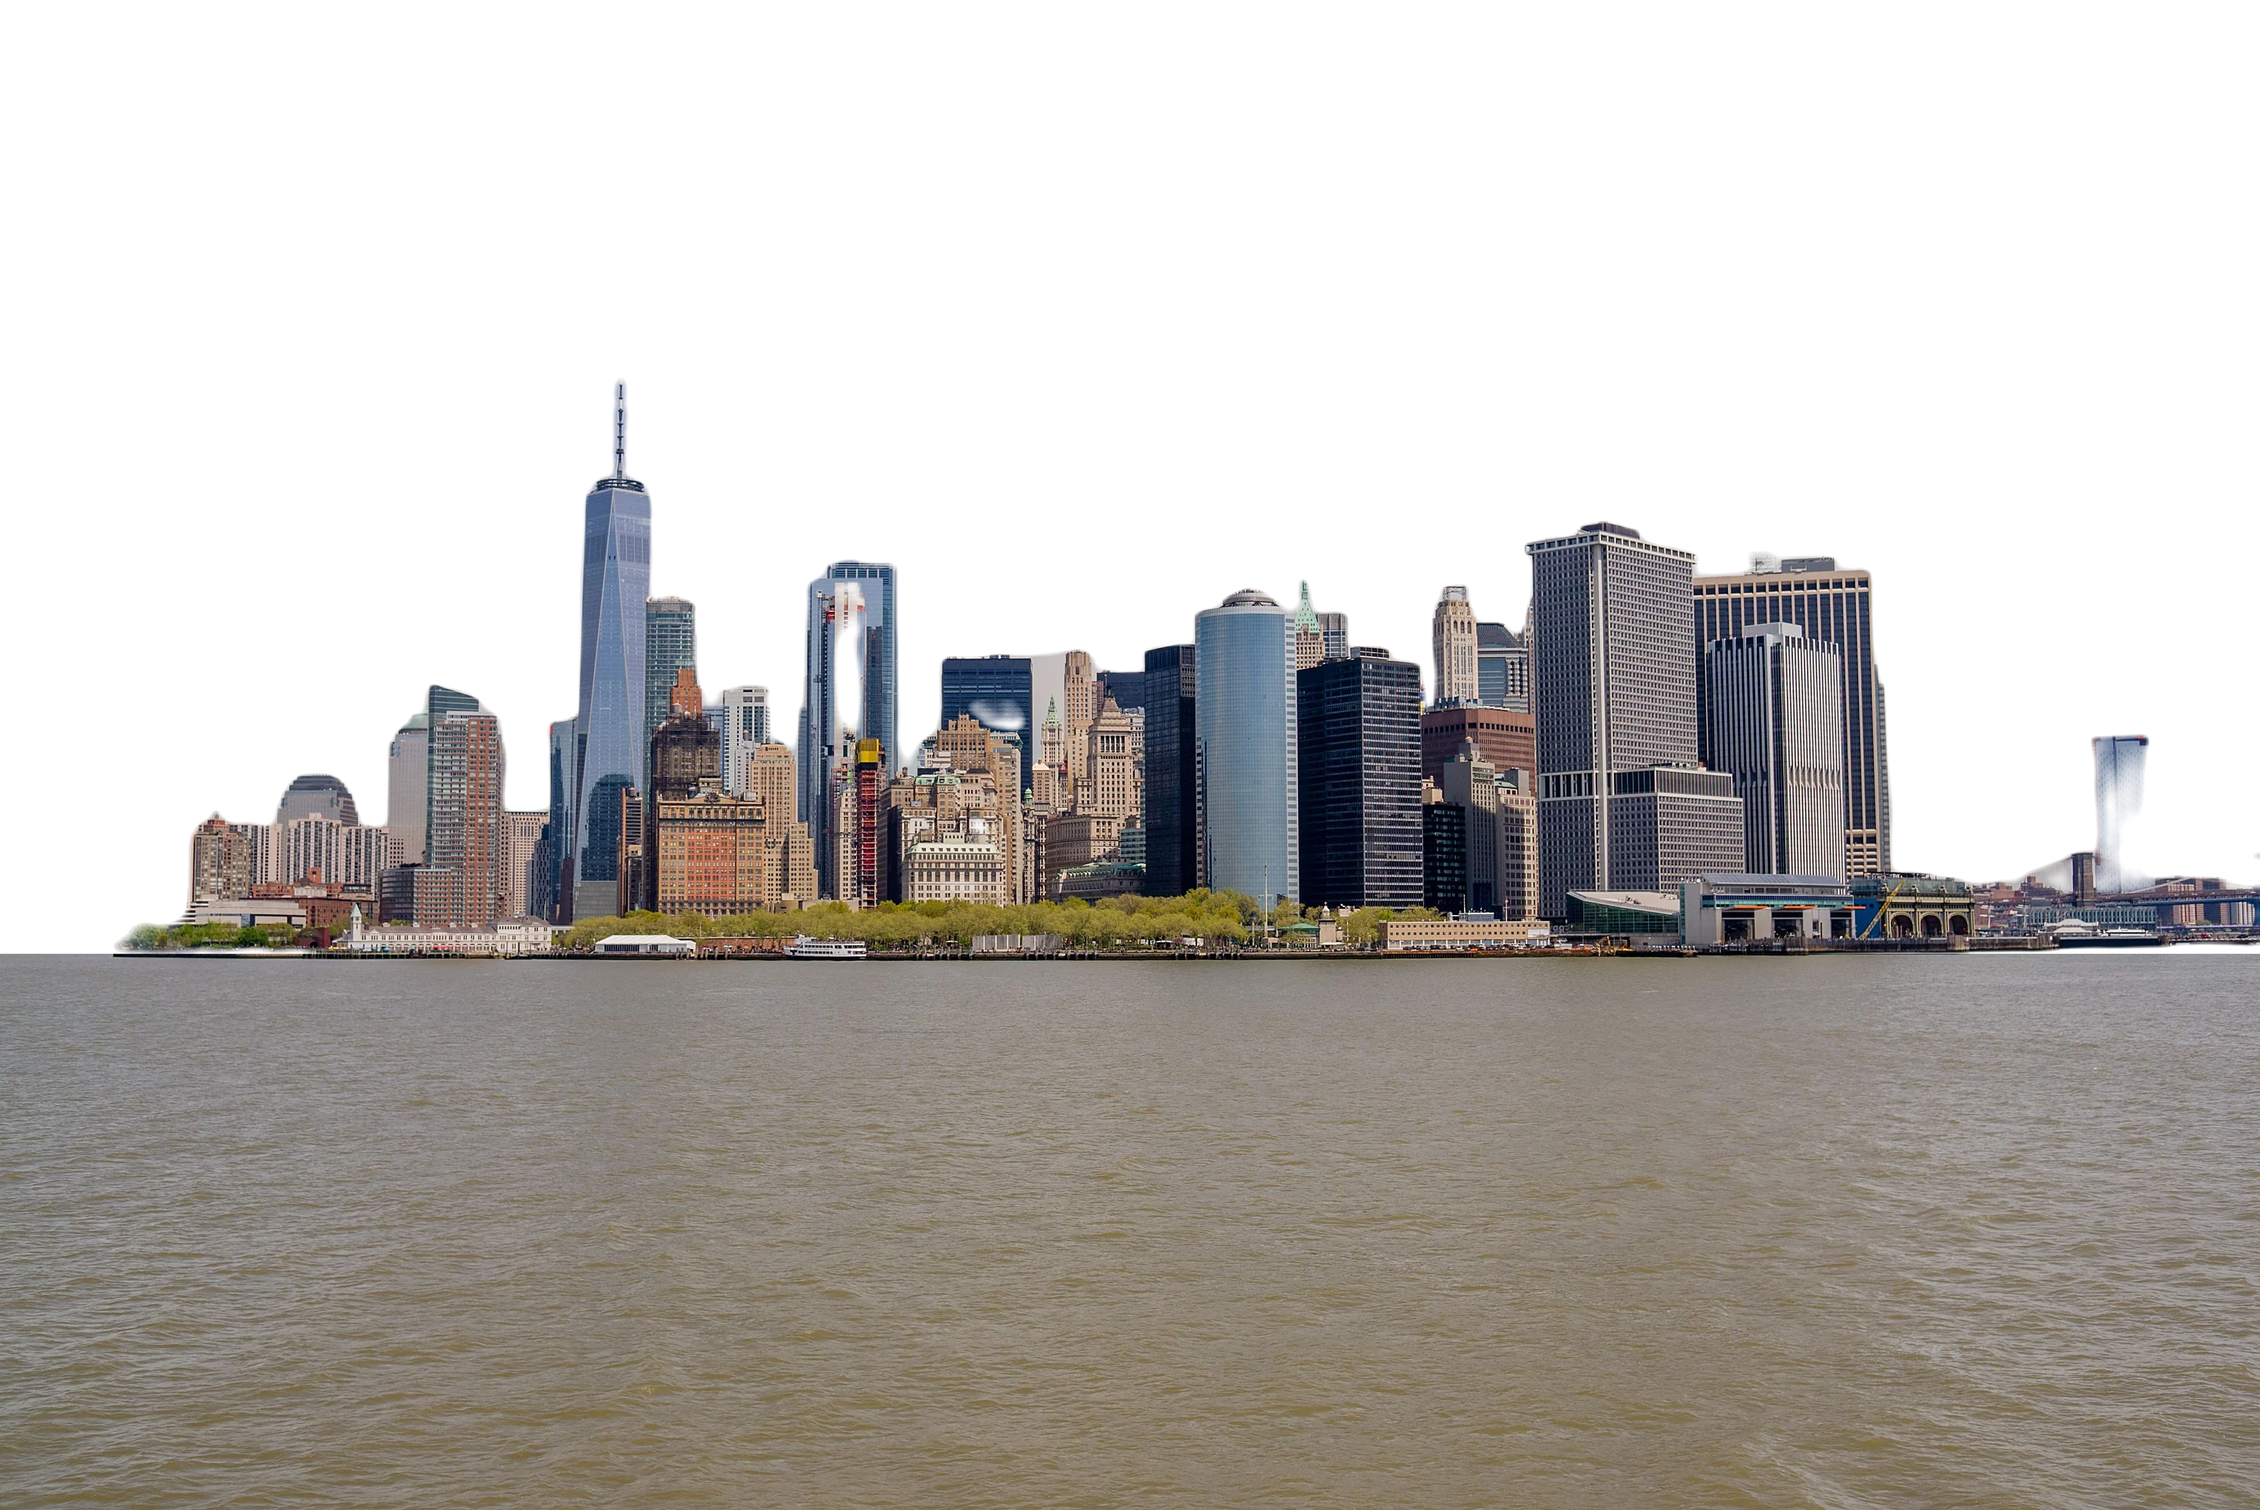
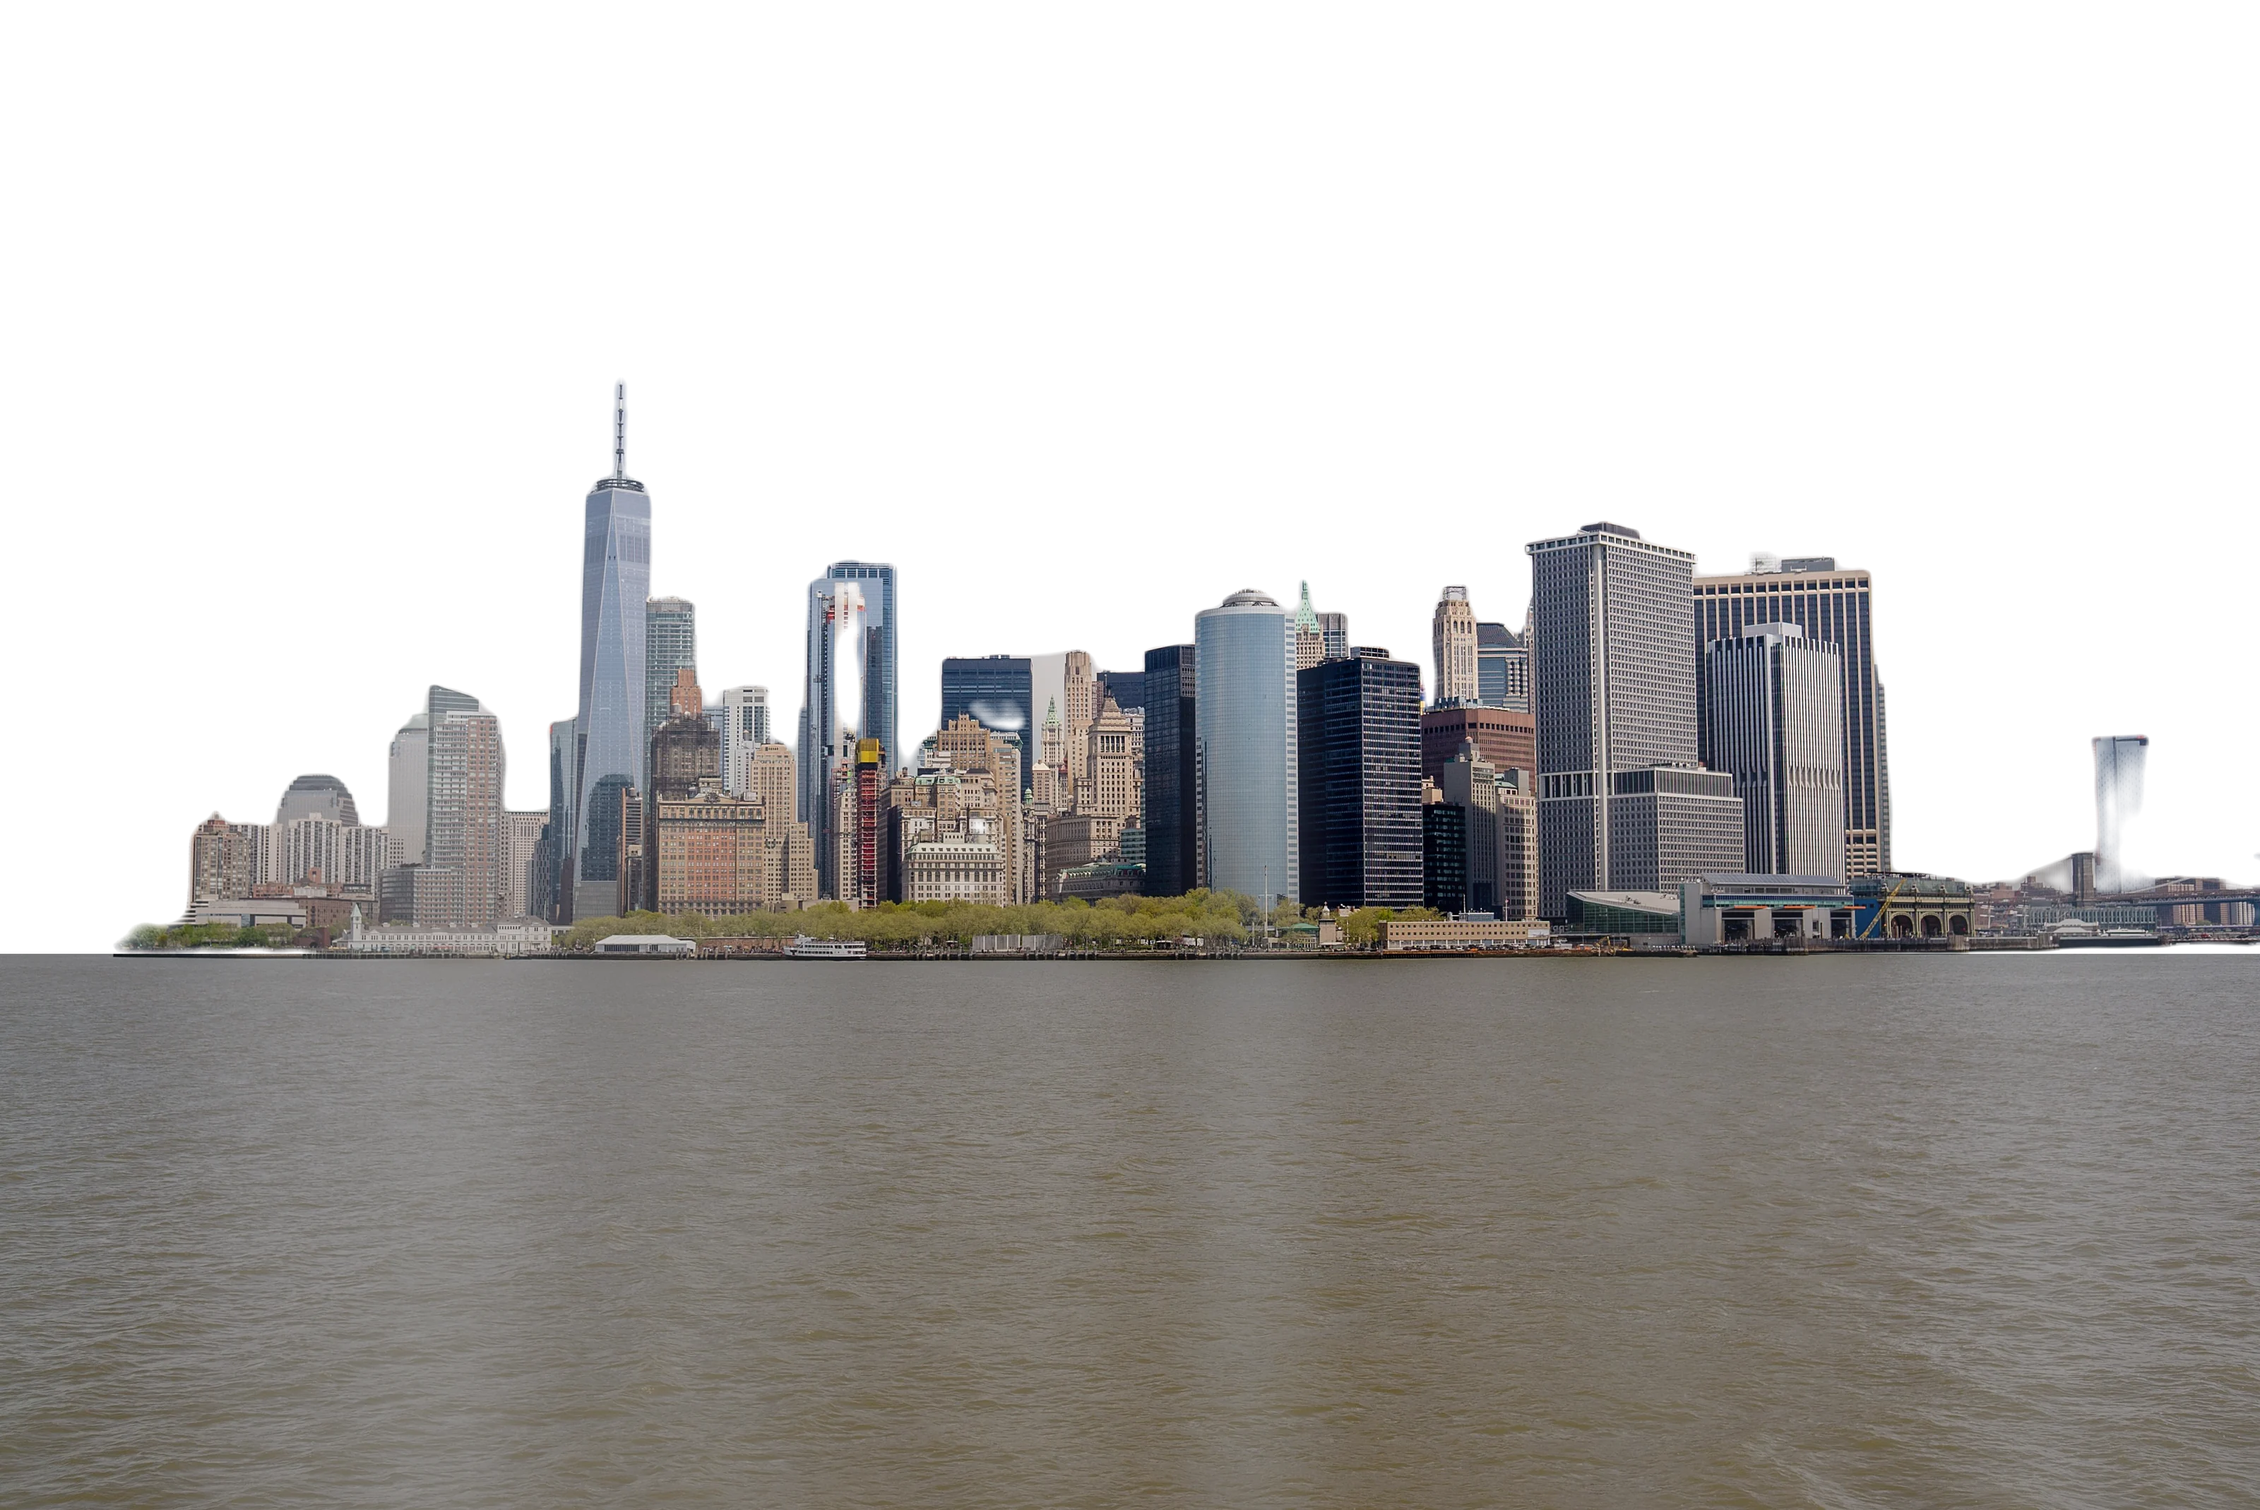
Deepen hero: graded aerial perspective, textured near plane, wider parallax
Matt's read on v5: sharp now, but "just looking at the image it doesn't
look three-dimensional, like there's layers to it." Two real causes.

1. The near plane was open water. Measured detail energy across the frame:
   waterfront strip 11.56, open water 2.67. v5's near seam sat at 0.70,
   entirely inside the featureless zone, so the plane could slide as far as
   it liked and the eye had nothing to track it against. Seam moves up to
   0.545-0.605 so the plane now carries the piers, boats and tree line.

2. All three planes were graded identically, so the still frame read flat
   however well it moved. Depth in a still image is aerial perspective, not
   parallax. Added a grade ladder - far washed out and lifted, mid neutral,
   near deepest contrast and richest - plus a horizon glow behind the
   skyline and a base shadow under it.

Also grades depth ACROSS the skyline itself, which is the part that makes
the tower mass stop reading as one flat cutout. A per-pixel haze map is far
too noisy to cut planes from (it speckles badly in shadowed building cores,
tested and rejected). Collapsed to one value per column and smoothed hard,
the same signal is stable, and applied as a continuous grade it needs no
mask and can produce no seam.

Sharpness held: hazing is tonal, not blur. Measured edge energy in the
hazed left region is 4.71 with windows and pier structures still fully
resolved at 1:1 on a 2x display.

- scroll 46.8 -> 73-85 fps, long frames 63 -> 14-36
[…]

diff --git a/index.html b/index.html
@@ -384,8 +384,8 @@
   @media (max-width: 860px) { .hero-frame-corner { width: 44px; height: 44px; opacity: 0.5; } .hero-frame-corner.tl { top: 10%; left: 5%; } .hero-frame-corner.br { bottom: 8%; right: 5%; } }
   .hero-scrim { position: absolute; inset: 0; pointer-events: none; z-index: 3;
     background:
-      linear-gradient(90deg, rgba(11,11,13,0.88) 0%, rgba(11,11,13,0.55) 46%, rgba(11,11,13,0.2) 100%),
-      linear-gradient(0deg, rgba(11,11,13,0.92) 0%, rgba(11,11,13,0.35) 30%, rgba(11,11,13,0.18) 55%, rgba(11,11,13,0.55) 100%);
+      linear-gradient(90deg, rgba(11,11,13,0.88) 0%, rgba(11,11,13,0.5) 44%, rgba(11,11,13,0.08) 100%),
+      linear-gradient(0deg, rgba(11,11,13,0.9) 0%, rgba(11,11,13,0.26) 30%, rgba(11,11,13,0.06) 55%, rgba(11,11,13,0.46) 100%);
   }
   .hero-content { position: relative; z-index: 5; height: 100%; display: flex; flex-direction: column; justify-content: flex-end; max-width: 1200px; margin: 0 auto; padding: 0 44px 220px; box-sizing: border-box; }
   .hero .kicker { font-size: clamp(16px, 1.3vw, 21px); font-weight: 600; letter-spacing: 0.32em; text-transform: uppercase; color: var(--brass-soft); text-shadow: 0 2px 18px rgba(0,0,0,0.5); display: flex; align-items: center; gap: 18px; margin-bottom: 42px; opacity: 0; animation: rise 1s var(--ease) 0.3s forwards; }
@@ -2062,7 +2062,7 @@
     var heroEl = document.getElementById('top');
     var heroPlanes = heroEl ? Array.prototype.slice.call(heroEl.querySelectorAll('[data-depth]')) : [];
     if (!reduce && heroPlanes.length) {
-      var SCROLL_RATE = 0.14, PX = 20, PY = 12, EASE = 0.085;
+      var SCROLL_RATE = 0.19, PX = 34, PY = 20, EASE = 0.085;
       var curX = 0, curY = 0, tgtX = 0, tgtY = 0, sY = 0, heroRunning = false, idle = 0, heroVisible = true;
 
       heroPlanes.forEach(function (el) { el._d = parseFloat(el.getAttribute('data-depth')) || 0; });
@@ -2075,7 +2075,8 @@
           var el = heroPlanes[i], d = el._d;
           var x = curX * PX * d;
           var y = curY * PY * d - sY * d * SCROLL_RATE;
-          el.style.transform = 'translate3d(' + x.toFixed(2) + 'px,' + y.toFixed(2) + 'px,0)';
+          var sc = 1 + Math.abs(d) * 0.004 * (Math.abs(curX) + Math.abs(curY));
+          el.style.transform = 'translate3d(' + x.toFixed(2) + 'px,' + y.toFixed(2) + 'px,0) scale(' + sc.toFixed(4) + ')';
         }
         // spin down when nothing is moving, so an idle hero costs no frames
         if (settled) { idle++; } else { idle = 0; }
@@ -2089,13 +2090,17 @@
         if (sY < window.innerHeight * 1.3) kickHero();
       }, { passive: true });
 
-      heroEl.addEventListener('pointermove', function (e) {
+      // listen on the window, not the hero: the fixed nav sits over the top of the
+      // hero and would otherwise swallow the pointer and freeze the effect there
+      window.addEventListener('pointermove', function (e) {
         var r = heroEl.getBoundingClientRect();
-        tgtX = ((e.clientX - r.left) / r.width - 0.5) * 2;
-        tgtY = ((e.clientY - r.top) / r.height - 0.5) * 2;
+        if (r.bottom < 0) return;
+        var nx = (e.clientX - r.left) / r.width, ny = (e.clientY - r.top) / r.height;
+        if (nx < -0.15 || nx > 1.15 || ny < -0.15 || ny > 1.15) { tgtX = 0; tgtY = 0; }
+        else { tgtX = (nx - 0.5) * 2; tgtY = (ny - 0.5) * 2; }
         kickHero();
       }, { passive: true });
-      heroEl.addEventListener('pointerleave', function () { tgtX = 0; tgtY = 0; kickHero(); }, { passive: true });
+      document.addEventListener('pointerleave', function () { tgtX = 0; tgtY = 0; kickHero(); }, { passive: true });
 
       if ('IntersectionObserver' in window) {
         new IntersectionObserver(function (es) {

diff --git a/tools/build-hero-planes.py b/tools/build-hero-planes.py
@@ -1,49 +1,124 @@
-from PIL import Image, ImageFilter, ImageEnhance, ImageChops
-import numpy as np
+"""Hero depth planes for index.html (v6).
 
-SRC   = 'assets/a58-255e1ed2a1.jpg'
-MASK  = 'assets/hero-skyline-cutout.webp'
-base  = Image.open(SRC).convert('RGB')
-W, H  = base.size                       # 4272 x 2856
-print('base', W, H)
+Cuts three planes from the 4272px original and grades them into a real
+aerial-perspective ladder. Two rules govern this file:
 
-# ---- refined, full-res alpha for the skyline silhouette -------------------
-m  = Image.open(MASK).convert('RGBA').split()[3].resize((W, H), Image.LANCZOS)
-a  = np.asarray(m).astype(np.float32) / 255.0
-# firm up the edge: remap 0.30..0.70 -> 0..1 (keeps ~1.5px feather, kills the
-# 14%-of-frame semi-transparent haze that was ghosting over the backdrop)
-a  = np.clip((a - 0.30) / 0.40, 0.0, 1.0)
-WATER = int(0.632 * H)                  # buildings meet water here
-a[WATER:, :] = 1.0                      # extend silhouette to the bottom so no
-                                        # gap can open under it when planes split
-alpha = Image.fromarray((a * 255).astype(np.uint8))
+  1. Sharpness is non-negotiable on MID and NEAR. All softening lives on FAR,
+     which is sky and distant haze, where softness is what the eye expects.
+  2. No runtime CSS filters. Everything here is baked, so the browser only
+     ever composites translate3d. See feedback_no_runtime_css_filters...
 
-def clarity(img, amt=42):
-    return img.filter(ImageFilter.UnsharpMask(radius=2.0, percent=amt, threshold=3))
+v6 changes over v5, both aimed at making the STILL image read as layered:
+  - NEAR's seam moved up from 0.70 to the waterfront strip (0.545-0.605).
+    Measured detail energy: waterfront 11.56 vs open water 2.67. v5's near
+    plane was featureless water, so its motion was literally untrackable.
+  - Added the grade ladder + horizon glow + base shadow below. v5 graded all
+    three planes identically, which is why it was sharp but flat.
+"""
+from PIL import Image, ImageFilter, ImageEnhance
+import numpy as np, os
 
-def out(img, name, width, q, alpha_ch=None):
-    h = round(img.size[1] * width / img.size[0])
-    im = img.resize((width, h), Image.LANCZOS)
-    if alpha_ch is not None:
-        al = alpha_ch.resize((width, h), Image.LANCZOS)
-        im = im.convert('RGB'); im.putalpha(al)
-    im.save(f'assets/{name}', 'WEBP', quality=q, method=6)
-    import os; print(f'  {name:26s} {width}x{h}  {os.path.getsize("assets/"+name)/1024:.0f} KB')
+SRC, MASK = 'assets/a58-255e1ed2a1.jpg', 'assets/hero-skyline-cutout.webp'
+base = Image.open(SRC).convert('RGB')
+W, H = base.size
+WATER = 0.632                      # buildings meet water
+NEAR_FEATHER, NEAR_SOLID = 0.545, 0.605   # seam sits in the textured waterfront
 
-# ---- FAR: sky / atmosphere. Blur BAKED IN -> zero runtime CSS filter ------
-far = base.resize((2400, round(2400 * H / W)), Image.LANCZOS)
-far = far.filter(ImageFilter.GaussianBlur(3.4))
-far = ImageEnhance.Color(far).enhance(0.86)
-far = ImageEnhance.Brightness(far).enhance(0.90)
-out(far, 'hero-far.webp', 2400, 80)
+# ---------- grading helpers (all operate on float 0..1 RGB) ----------------
+def arr(im):  return np.asarray(im).astype(np.float32) / 255.0
+def img(a):   return Image.fromarray((np.clip(a, 0, 1) * 255).astype(np.uint8))
 
-# ---- MID: the skyline itself. Full-res, sharp, clarity-boosted -----------
-out(clarity(base, 46), 'hero-mid.webp', 3200, 86, alpha_ch=alpha)
+def contrast(a, k, pivot=0.5):   return (a - pivot) * k + pivot
+def lift(a, amt):                return a + amt * (1.0 - a)      # haze lifts blacks
+def warm(a, amt):
+    a = a.copy(); a[..., 0] *= 1 + amt; a[..., 2] *= 1 - amt; return a
+def clarity(im, amt):
+    return im.filter(ImageFilter.UnsharpMask(radius=2.0, percent=amt, threshold=3))
 
-# ---- NEAR: harbour foreground. Seam sits in smooth open water ------------
-seam, feather = int(0.70 * H), int(0.045 * H)
-y  = np.arange(H, dtype=np.float32)[:, None]
-na = np.clip((y - (seam - feather)) / feather, 0.0, 1.0)
-na = np.repeat(na, W, axis=1)
-out(clarity(base, 34), 'hero-near.webp', 3200, 86,
-    alpha_ch=Image.fromarray((na * 255).astype(np.uint8)))
+def save(im, name, width, q, alpha=None):
+    h = round(im.size[1] * width / im.size[0])
+    out = im.resize((width, h), Image.LANCZOS)
+    if alpha is not None:
+        out = out.convert('RGB'); out.putalpha(alpha.resize((width, h), Image.LANCZOS))
+    out.save(f'assets/{name}', 'WEBP', quality=q, method=6)
+    print(f'  {name:22s} {width}x{h}  {os.path.getsize("assets/"+name)/1024:>5.0f} KB')
+
+# ---------- silhouette alpha, refined to full resolution -------------------
+m = Image.open(MASK).convert('RGBA').split()[3].resize((W, H), Image.LANCZOS)
+a = np.clip((np.asarray(m).astype(np.float32) / 255.0 - 0.30) / 0.40, 0, 1)
+a[int(WATER * H):, :] = 1.0        # extend down so no gap opens under the skyline
+mid_alpha = img(a[..., None].repeat(3, 2))[:, :].convert('L') if False else \
+            Image.fromarray((a * 255).astype(np.uint8))
+
+y = np.arange(H, dtype=np.float32)[:, None] / H
+
+# ---------- FAR: sky + distant haze. The only soft plane. -----------------
+far = arr(base)
+far = lift(far, 0.24)                       # aerial perspective: distance washes out
+far = contrast(far, 0.74)
+# horizon glow - haze is brightest where it stacks up behind the skyline, and
+# this is what lifts a dark silhouette off the sky in a STILL frame
+glow = np.exp(-((y - 0.50) ** 2) / (2 * 0.16 ** 2)) * 0.20
+far = far * (1 + glow[..., None])
+far = arr(ImageEnhance.Color(img(far)).enhance(0.60))
+far = img(far * 1.02)
+far = far.resize((2400, round(2400 * H / W)), Image.LANCZOS)
+save(far.filter(ImageFilter.GaussianBlur(3.4)), 'hero-far.webp', 2400, 80)
+
+# ---------- MID: the skyline, with depth graded ACROSS it -----------------
+# The tower mass is one plane, so grading it uniformly makes it read as a flat
+# cutout no matter how the planes move. Real depth inside a skyline comes from
+# aerial perspective: distant clusters are lighter, flatter and less saturated.
+#
+# A per-pixel haze map is far too noisy to cut planes from (tested - it speckles
+# badly in shadowed building cores). But collapsed to ONE VALUE PER COLUMN and
+# smoothed hard, the same signal is stable, and applied as a continuous grade it
+# needs no mask and can produce no seam. Distance in a broadside skyline varies
+# with x - which part of the city you are looking at - not within one tower.
+import cv2
+sm = cv2.resize(np.asarray(base), (W // 4, H // 4))
+g  = cv2.cvtColor(sm, cv2.COLOR_RGB2GRAY).astype(np.float32)
+lab = cv2.cvtColor(sm, cv2.COLOR_RGB2LAB).astype(np.float32)
+sat = cv2.cvtColor(sm, cv2.COLOR_RGB2HSV).astype(np.float32)[:, :, 1]
+detail = cv2.GaussianBlur(np.abs(g - cv2.GaussianBlur(g, (0, 0), 9)), (0, 0), 15)
+
+def nrm(v):
+    lo, hi = np.percentile(v, 2), np.percentile(v, 98)
+    return np.clip((v - lo) / (hi - lo + 1e-6), 0, 1)
+
+band = np.asarray(m.resize((W // 4, H // 4))) > 140
+band[int(WATER * H / 4):, :] = False                     # buildings only
+haze = 0.40 * nrm(lab[:, :, 0]) + 0.25 * (1 - nrm(sat)) + 0.35 * (1 - nrm(detail))
+
+col = np.array([haze[band[:, x], x].mean() if band[:, x].any() else np.nan
+                for x in range(W // 4)])
+idx = np.arange(len(col))
+col = np.interp(idx, idx[~np.isnan(col)], col[~np.isnan(col)])   # fill sky gaps
+col = cv2.GaussianBlur(col.reshape(1, -1), (0, 0), 26).ravel()   # kill all speckle
+col = nrm(col)
+depth = np.interp(np.linspace(0, len(col) - 1, W), idx, col)[None, :]  # 0 near .. 1 far
+print(f'  skyline depth ramp: near={depth.min():.2f} far={depth.max():.2f}')
+
+mid = arr(clarity(base, 46))
+mid = contrast(mid, 1.10 - 0.26 * depth[..., None])      # distance flattens contrast
+mid = lift(mid, 0.03 + 0.20 * depth[..., None])          # and washes it toward haze
+mid = mid * (1 + 0.06 * depth[..., None])                # and lifts it
+sat_mix = 1.0 - 0.42 * depth[..., None]                  # and drains colour
+grey = mid.mean(axis=2, keepdims=True)
+mid = grey + (mid - grey) * sat_mix
+# base shadow: towers sink into shade at the waterline so the near plane reads
+# as standing in front of them rather than pasted onto them
+shade = np.clip((y - 0.40) / (WATER - 0.40), 0, 1) ** 1.6 * 0.20
+mid = mid * (1 - shade[..., None])
+save(img(mid), 'hero-mid.webp', 3200, 86, alpha=mid_alpha)
+
+# ---------- NEAR: waterfront + harbour. Deepest contrast = closest ---------
+near = arr(clarity(base, 40))
+near = contrast(near, 1.20)
+near = near * 0.90
+near = warm(near, 0.012)
+near = arr(ImageEnhance.Color(img(near)).enhance(1.10))
+na = np.clip((y - NEAR_FEATHER) / (NEAR_SOLID - NEAR_FEATHER), 0, 1)
+na = (na ** 1.4).repeat(W, axis=1)          # long, soft handover into the strip
+save(img(near), 'hero-near.webp', 3200, 86,
+     alpha=Image.fromarray((na * 255).astype(np.uint8)))
